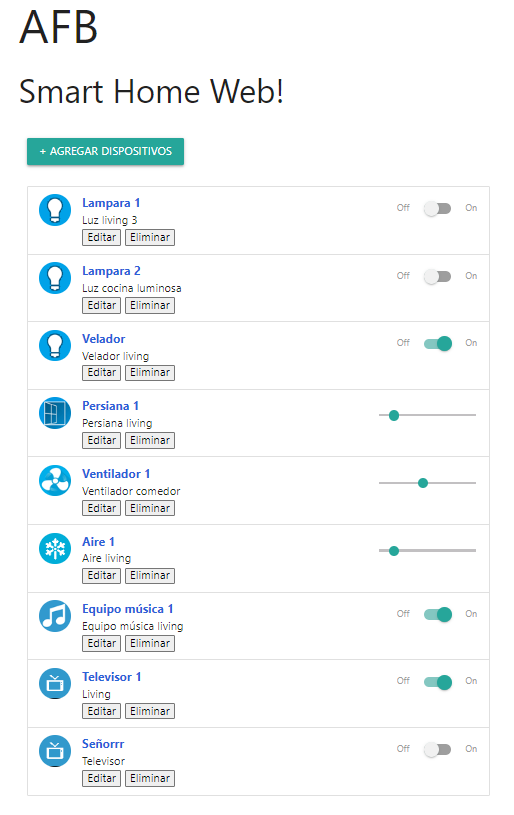
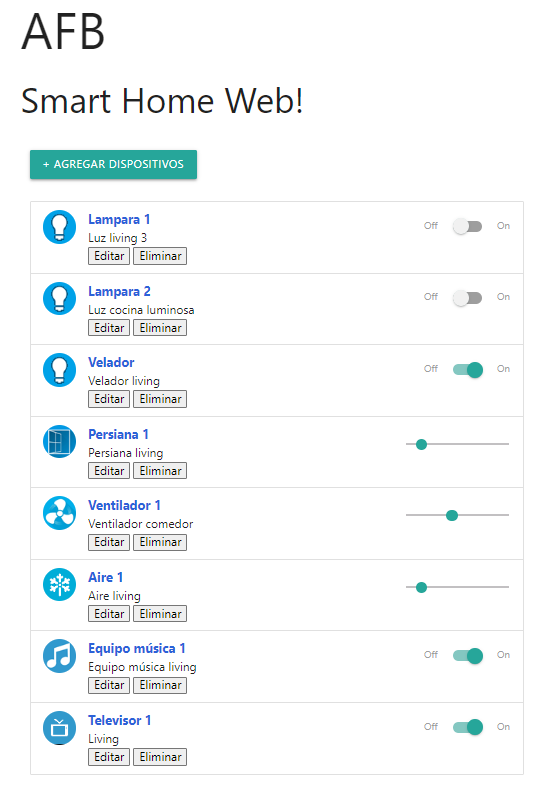
Modificaciones para que los controles "range" vayan de 0 a 1 con paso de 0.1 y en la base de datos para que acepte datos de tipo float en el campo "state". Actualización del archivo README.md

diff --git a/src/backend/index.js b/src/backend/index.js
@@ -18,32 +18,33 @@ app.use(express.static('/home/node/app/static/'));
 // NOTA: Dejo esta función porque podría ser útil aunque no se invoque
 //       directamente desde la aplicación.
 //=============================================================================
-app.get('/device/:id',function(req,res){
+/*app.get('/device/:id',function(req,res){
+    console.log(req);
     utils.query("SELECT * FROM Devices where id="+req.params.id,(error,respuesta,fields)=>{
         if(error){
+            console.log(err.sqlMessage)
             res.status(409).send(error.sqlMessage);    
         }else{
+            console.log(res);
             res.status(200).send(respuesta);
         }
-        
     })
-    
-})
+})*/
 
 //=============================================================================
-// Función que trae datos de todos los dispositivos de la base de datos
-// NOTA: Dejo esta función porque podría ser útil aunque no se invoque
-//       directamente desde la aplicación.
+// Función que trae los datos de todos los dispositivos de la base de datos
 //=============================================================================
 app.get('/devices/', function(req, res, next) {
+    console.log(req.head);
+    console.log(req.body);
     utils.query("SELECT * FROM Devices",(error,db_resp,fields)=>{
-        //console.log(db_resp);
         if(error){
+            console.log(err.sqlMessage)
             res.status(409).send(error.sqlMessage);    
         }else{
+            console.log(db_resp);
             res.status(200).send(JSON.stringify(db_resp));
         }
-        
     })
 });
 
@@ -56,18 +57,20 @@ app.post('/stateDevice/',function(req,res){
     utils.query("update Devices set state="+req.body.status +" where id="+req.body.id,
         (err,resp,meta)=>{
             if(err){
+                console.log(err.sqlMessage)
                 res.status(409).send(err.sqlMessage);
             }else{
-                res.status(200).send("ok "+resp);
+                console.log(resp);
+                res.status(200).send("ok "+ resp);
             }
     })
-    
 })
 
 //=============================================================================
 // Función que actualiza parámetros del dispositivo (nombre/descripción/tipo)
 //=============================================================================
 app.post('/updateDevice', (req, res) => {
+    console.log(req.body);
     // Actualizar los datos del dispositivo en la base de datos
     utils.query("UPDATE Devices SET name= '"+req.body.name +"', description= '"+req.body.description+"', type="+req.body.type+" where id="+req.body.id,
         (err,db_resp,meta)=>{
@@ -78,6 +81,7 @@ app.post('/updateDevice', (req, res) => {
             }else{
                 // Si no hay error devuelvo el nombre del dispositivo actualizado
                 let respuesta = {name:req.body.name}
+                console.log(respuesta);
                 res.status(200).send(JSON.stringify(respuesta));
             }
     })
@@ -87,6 +91,7 @@ app.post('/updateDevice', (req, res) => {
 // Función que agrega un nuevo dispositivo si vino un pedido por POST
 //=============================================================================
 app.post('/addDevice', (req, res) => {
+    console.log(req.body);
     // Agregar el dispositivo en la base de datos
     // NOTA: el campo "id" está definido como autoincrement en smart_home.sql, por eso no lo indico
     let querystr = "INSERT INTO Devices (name, description, state, type) VALUES ('"+req.body.name +"', '"+req.body.description+"', '"+req.body.state+"', '"+req.body.type+"')"
@@ -99,6 +104,7 @@ app.post('/addDevice', (req, res) => {
             }else{
                 // Si no hay error devuelvo el nombre del dispositivo actualizado
                 let respuesta = {name:req.body.name}
+                console.log(respuesta);
                 res.status(200).send(JSON.stringify(respuesta));
             }
     })
@@ -108,6 +114,7 @@ app.post('/addDevice', (req, res) => {
 // Función que elimina un dispositivo de la base de datos
 //=============================================================================
 app.post('/deleteDevice', (req, res) => {
+    console.log(req.body);
     // Agregar el dispositivo de la base de datos
     let querystr = "DELETE FROM Devices WHERE Devices.id ="+req.body.id;
     let respuesta = {name:req.body.name}
@@ -118,6 +125,7 @@ app.post('/deleteDevice', (req, res) => {
                 console.log(err.sqlMessage)
                 res.status(409).send(err.sqlMessage);
             }else{
+                console.log(respuesta);
                 // Si no hay error devuelvo el nombre del dispositivo actualizado
                 res.status(200).send(JSON.stringify(respuesta));
             }

diff --git a/src/frontend/ts/main.ts b/src/frontend/ts/main.ts
@@ -15,12 +15,10 @@ class Main implements EventListenerObject {
         let input = <HTMLInputElement>object.target;
         let strState = {}
 
-        console.log(input);
-
+        // En función si el callback vino de un checkbox o un range paso el estado al POST
         if (input.type === "checkbox"){
-            strState = { id: input.getAttribute("idBd"), status: input.checked }
+            strState = { id: input.getAttribute("idBd"), status: input.checked}
         } else if (input.type === "range") {
-            console.log(input);
             strState = { id: input.getAttribute("idBd"), status: input.value }
         }
 
@@ -130,9 +128,14 @@ class Main implements EventListenerObject {
                                 </label>
                             </div>`
                         } else if (ctrl_type === "slide") {
+                            // Declaro el input "range" según indica Materialize
                             listaDevices +=`
-                            <div class="slidecontainer">
-                                <input idBd="${item.id}" id="slide_${item.id}" type="range" min="1" max="10" value="${item.state}">
+                            <div id="test-slider">
+                                <form action="#">
+                                    <p class="range-field">
+                                        <input idBd="${item.id}" id="slide_${item.id}" type="range" min="0" max="1" step="0.1" value="${item.state}">
+                                    </p>
+                                </form>
                             </div>`
                         }
                         listaDevices +=`
@@ -140,7 +143,9 @@ class Main implements EventListenerObject {
                         </li>`
                     }
 
-                    // <input idSl="${item.id}" id="sl_${item.id}" type="range" min="0" max="100"/>
+                    /*<div class="slidecontainer">
+                        <input idBd="${item.id}" id="slide_${item.id}" type="range" min="1" max="10" value="${item.state}">
+                    </div>`*/
 
                     // Paso el texto plano generado al HTML para que se muestre
                     ul.innerHTML = listaDevices;

diff --git a/README.md b/README.md
@@ -7,7 +7,7 @@ Web App Full Stack Base
 
 *Ayudaría mucho si apoyaras este proyecto con una ⭐ en Github!*
 
-Este proyecto es una aplicación web fullstack que se ejecuta sobre el ecosistema `Docker`. Está compuesta por un compilador de `TypeScript` que te permite utilizar este superset de JavaScript para poder programar un `cliente web`. También tiene un servicio en `NodeJS` que te permite ejecutar código en backend y al mismo tiempo disponibilizar el código del cliente web para interactar con el servicio. Además tiene una `base de datos` MySQL que puede interactuar con el backend para guardar y consultar datos, y de manera adicional trae un `administrador` de base de datos para poder administrar la base en caso que lo necesites.
+Este proyecto es una aplicación web fullstack que se ejecuta sobre el ecosistema `Docker`. Está compuesta por un compilador de `TypeScript` que te permite utilizar este superset de JavaScript para poder programar un `cliente web`. También tiene un servicio en `NodeJS` que te permite ejecutar código en backend y al mismo tiempo disponibilizar el código del cliente web para interactuar con el servicio. Además tiene una `base de datos` MySQL que puede interactuar con el backend para guardar y consultar datos, y de manera adicional trae un `administrador` de base de datos para poder administrar la base en caso que lo necesites.
 
 La aplicación IoT de base que viene con este proyecto se encarga de crear una tabla llamada `Devices` en la base de datos, y la idea es que vos puedas desarrollar el código de backend y frontend que te permita controlar desde el navegador el estado de los devices de un hogar inteligente - *como pueden ser luces, TVs, ventiladores, persianas, enchufes y otros* - y almacenar los estados de cada uno en la base de datos. 
 
@@ -35,7 +35,7 @@ Continua con la descarga del código cuando tengas las dependencias instaladas y
 
 ### Descargar el código
 
-Para descargar el código, lo más conveniente es que realices un `fork` de este proyecto a tu cuenta personal haciendo click en [este link](https://github.com/gotoiot/app-fullstack-base/fork). Una vez que ya tengas el fork a tu cuenta, descargalo con este comando (acordate de poner tu usuario en el link):
+Para descargar el código, lo más conveniente es que realices un `fork` de este proyecto a tu cuenta personal haciendo click en [este link](https://github.com/LaBruma/app-fullstack-base-2024-i10/fork). Una vez que ya tengas el fork a tu cuenta, descargalo con este comando (acordate de poner tu usuario en el link): 
 
 ```
 git clone https://github.com/USER/app-fullstack-base.git
@@ -158,44 +158,115 @@ En esta sección podés ver los detalles específicos de funcionamiento del cód
 
 ### Agregar un dispositivo
 
-Completá los pasos para agregar un dispositivo desde el cliente web.
+Por sobre el listado de dispositivos encontrarás el botón **+ AGREGAR DISPOSITIVOS**. Al pulsarlo podrás indicar el Tipo (de un listado de tipos posibles), el nombre y la descripción del dispositivo que quieras agregar. Tené en cuenta que el valor de inicialización de todos los dispositivos es apagado.
 
 ### Frontend
 
-Completá todos los detalles sobre cómo armaste el frontend, sus interacciones, etc.
+Ya sean dispositivos creados o existentes (traídos de la base de datos), los verás uno seguido de otro en un listado en la single page web.
+
+Cada dispositivo tiene un ícono asociado al tipo de dispositivo, a su vez tendrá un control tipo **ON/OFF** o de tipo **RANGO** si correspondiese un control gradual (este rango varía entre 0 y 1 con un paso de 0.1).
+
+A su vez se cuenta con un botón de *Editar* por dispositivo mediante el cual se puede editar el tipo, nombre y descripción (si no se modifica el tipo se mantiene el que presenta) y también con un botón "Eliminar" para eliminarlo.
 
 ### Backend
 
-Completá todos los detalles de funcionamiento sobre el backend, sus interacciones con el cliente web, la base de datos, etc.
+El **Backend** es responsivo a las indicaciones del **Frontend** realizando principalmente la interacción con la base de datos para editar, agregar y eliminar dispositivos.
+
+Devuelve un codigo 200 si la interacción con la base de datos fue exitosa y un código 40x si hubo algún error (esta última condición es captada por el frontend que informa al usuario de dicha condición)
+
+Se modificó a su vez la base de datos, particularmente en el campo **state** para que aceptara números reales. De esta manera un dispositivo apagado guardará el valor **0.0**, uno encendido el valor **1.0**, y uno que permita valores intermedios, por ejemplo una luz dimerizable, podrá presentar un valor de **0.5** si está a la mitad de su intensidad.
 
 <details><summary><b>Ver los endpoints disponibles</b></summary><br>
 
 Completá todos los endpoints del backend con los metodos disponibles, los headers y body que recibe, lo que devuelve, ejemplos, etc.
 
-1) Devolver el estado de los dispositivos.
+1) Devolver datos de todos los dispositivos:
 
 ```json
 {
-    "method": "get",
-    "request_headers": "application/json",
+    "method": "post",
+    "request_headers": "application/devices",
     "request_body": "",
     "response_code": 200,
-    "request_body": {
-        "devices": [
+    "response_body": [
+        "RowDataPacket":
             {
                 "id": 1,
-                "status": true,
-                "description": "Kitchen light"
+                "name": "Lampara 1",
+                "description": "Luz living 3",
+                "state": 0,
+                "type":0
             }
         ]
-    },
 }
 ``` 
 
-</details>
+2) Cambiar estado de un dispositivo:
 
-</details>
+```json
+{
+    "method": "post",
+    "request_headers": "application/stateDevice",
+    "request_body": { "id": 1,
+                      "status": false },
+    "response_code": 200,
+    "response_body": "ok" +
+        "OKPacket" : {
+            "fieldCount": 0,
+            "affectedRows": 1,
+            "insertId": 0,
+            "serverStatus": 2,
+            "warningCount": 0,
+            "message": "(Rows matched: 1  Changed: 1  Warnings: 0",
+            "protocol41": true,
+            "changedRows": 1
+        }
+}
+``` 
 
+3) Actualizar el estado de un dispositivo:
+
+```json
+{
+    "method": "post",
+    "request_headers": "application/updateDevice",
+    "request_body":  { "id": 1,
+                       "name": "Lampara 1",
+                       "description": "Luz living 3",
+                       "type": 0 },
+    "response_code": 200,
+    "response_body": { "name": "Lampara 1"}
+}
+``` 
+
+4) Agregar un dispositivo:
+
+```json
+{
+    "method": "post",
+    "request_headers": "application/addDevice",
+    "request_body": { "id": 9,
+                      "name": "Televisor 1",
+                      "description": "Living",
+                      "type": 3,
+                      "state": 0}
+    "response_code": 200,
+    "response_body": { "name": "Televisor 1"}
+}
+``` 
+
+4) Eliminar un dispositivo:
+
+```json
+{
+    "method": "post",
+    "request_headers": "application/addDevice",
+    "request_body": { "id": 9,
+                      "name": "Televisor 1" }
+    "response_code": 200,
+    "response_body": { "name": "Televisor 1"}
+}
+``` 
 
 ## Tecnologías utilizadas 🛠
 
@@ -243,6 +314,8 @@ Las colaboraciones principales fueron realizadas por:
 * **[Agustin Bassi](https://github.com/agustinBassi)**: Ideación, puesta en marcha y mantenimiento del proyecto.
 * **[Ernesto Giggliotti](https://github.com/ernesto-g)**: Creación inicial del frontend, elección de Material Design.
 * **[Brian Ducca](https://github.com/brianducca)**: Ayuda para conectar el backend a la base de datos, puesta a punto de imagen de Docker.
+
+* **[Andrés F. Brumovsky](https://github.com/LaBruma)**: Modificaciones sobre el proyecto base para brindar funcionalidad.
 
 También podés mirar todas las personas que han participado en la [lista completa de contribuyentes](https://github.com/###/contributors).
 
